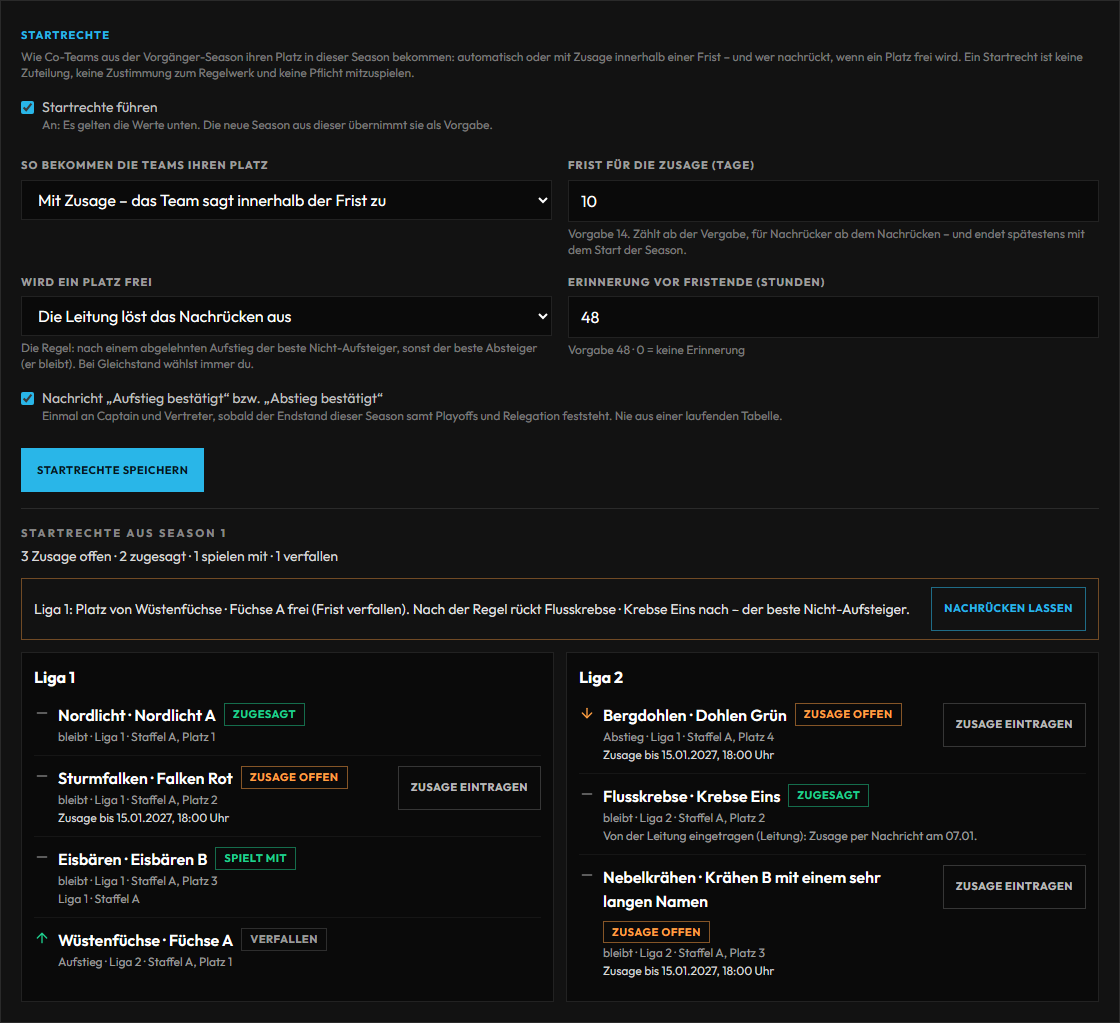
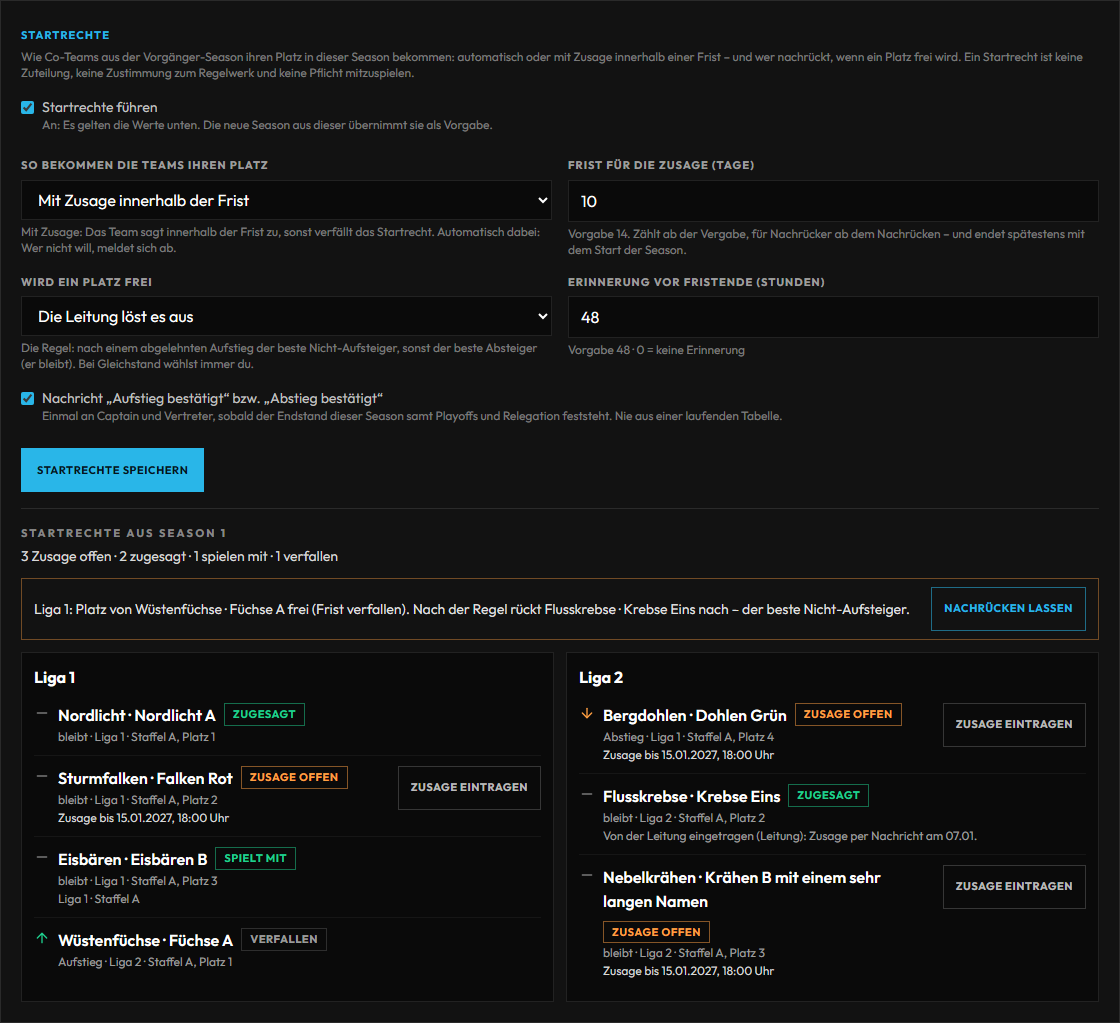
fix: Liga – Auswahl der Startrechte am Handy ganz lesbar (#1627)
Kürzere Auswahltexte, die Erklärung steht im Hinweis darunter; Handbuch und Bilder passen dazu.

Changed region(s): [[0.0, 0.1818, 0.4688, 0.2424], [0.125, 0.303, 0.25, 0.3333]]

diff --git a/frontend/src/lib/leagueStartRights.js b/frontend/src/lib/leagueStartRights.js
@@ -19,8 +19,9 @@ const COUNT_ORDER = [["offered", "Zusage offen"], ["accepted", "zugesagt"], ["co
 const WHY_TEXT = { declined: "abgemeldet", expired: "Frist verfallen", rejected: "von der Leitung abgelehnt" };
 const GROUP_TEXT = { non_promoted: "der beste Nicht-Aufsteiger", relegated: "der beste Absteiger bleibt" };
 
-export const MODE_OPTIONS = [["accept", "Mit Zusage – das Team sagt innerhalb der Frist zu"], ["auto", "Automatisch dabei – wer nicht will, meldet sich ab"]];
-export const SUCCESSOR_OPTIONS = [["next", "Automatisch – der Nächste nach der Regel rückt nach"], ["lead", "Die Leitung löst das Nachrücken aus"]];
+// Kurz gehalten: Die Auswahl muss am Handy (390 px) ganz lesbar sein - die Erklärung steht im Hinweis darunter.
+export const MODE_OPTIONS = [["accept", "Mit Zusage innerhalb der Frist"], ["auto", "Automatisch dabei"]];
+export const SUCCESSOR_OPTIONS = [["next", "Automatisch nach der Regel"], ["lead", "Die Leitung löst es aus"]];
 
 export const stateLabel = (state) => STATE_LABEL[state] || "";
 export const stateTone = (state) => STATE_TONE[state] || "muted";

diff --git a/frontend/src/pages/admin/league/SeasonStartRightsPanel.jsx b/frontend/src/pages/admin/league/SeasonStartRightsPanel.jsx
@@ -220,7 +220,8 @@ export function SeasonStartRightsPanel({ seasonId, canSeason = false, canApplica
           <>
             <FormGrid cols={2}>
               <SelectField label="So bekommen die Teams ihren Platz" value={form.mode} onChange={(value) => set("mode", value)} options={MODE_OPTIONS}
-                disabled={!canSeason} testId="start-rights-mode" />
+                disabled={!canSeason} testId="start-rights-mode"
+                hint="Mit Zusage: Das Team sagt innerhalb der Frist zu, sonst verfällt das Startrecht. Automatisch dabei: Wer nicht will, meldet sich ab." />
               <TextField label="Frist für die Zusage (Tage)" type="number" min={1} max={60} value={form.accept_days ?? ""} onChange={(value) => set("accept_days", value)}
                 disabled={!canSeason || !accept} testId="start-rights-days"
                 hint={`Vorgabe ${data.defaults.accept_days}. Zählt ab der Vergabe, für Nachrücker ab dem Nachrücken – und endet spätestens mit dem Start der Season.`} />

diff --git a/docs/handbuch/liga.md b/docs/handbuch/liga.md
@@ -2090,9 +2090,9 @@ Tagen** und was geschieht, **wenn ein Platz frei wird**. Oder vorher und nachher
 
 | Einstellung | Vorgabe | Bedeutung |
 | --- | --- | --- |
-| **So bekommen die Teams ihren Platz** | mit Zusage | „Automatisch dabei“ ist das Verhalten aus 3.11 |
+| **So bekommen die Teams ihren Platz** | mit Zusage innerhalb der Frist | „Automatisch dabei“ ist das Verhalten aus 3.11 |
 | **Frist für die Zusage (Tage)** | 14 | zählt ab dem Anlegen der Season, für Nachrücker ab dem Nachrücken – und endet spätestens mit dem Start der Season. Eine geänderte Zahl gilt sofort für alle offenen Startrechte |
-| **Wird ein Platz frei** | automatisch nach der Regel | oder: „Die Leitung löst das Nachrücken aus“ – dann seht ihr den Vorschlag und drückt selbst |
+| **Wird ein Platz frei** | automatisch nach der Regel | oder: „Die Leitung löst es aus“ – dann seht ihr den Vorschlag und drückt selbst |
 | **Erinnerung vor Fristende (Stunden)** | 48 | einmal an Captain und Vertreter; 0 = keine |
 | **Nachricht „Aufstieg bestätigt“** | an | siehe unten |
 
@@ -2125,7 +2125,7 @@ wie für jedes neue Co-Team. Zusagen nach Fristende lehnt die Seite sofort ab, a
 
 Der Nachrücker bekommt eine Nachricht und – im Modus „mit Zusage“ – eine **eigene Frist**. Er kann **zusagen** oder **ablehnen**.
 Lehnt er ab oder meldet er sich nicht, **bleibt er in seiner Liga** (mit seiner früheren Zusage), und der Nächste ist dran. Mit „Die
-Leitung löst das Nachrücken aus“ steht der freie Platz orange über der Übersicht: **Nachrücken lassen** → Team wählen, Grund angeben.
+Leitung löst es aus“ steht der freie Platz orange über der Übersicht: **Nachrücken lassen** → Team wählen, Grund angeben.
 
 **6. Nachricht „Aufstieg bestätigt“.** Sobald der Endstand der **ganzen** Season feststeht, bekommen Captain und Vertreter jedes
 auf- oder absteigenden Co-Teams genau eine Nachricht (Glocke, App, Mail). Nie vorher, nie aus einer laufenden Tabelle, und nicht
